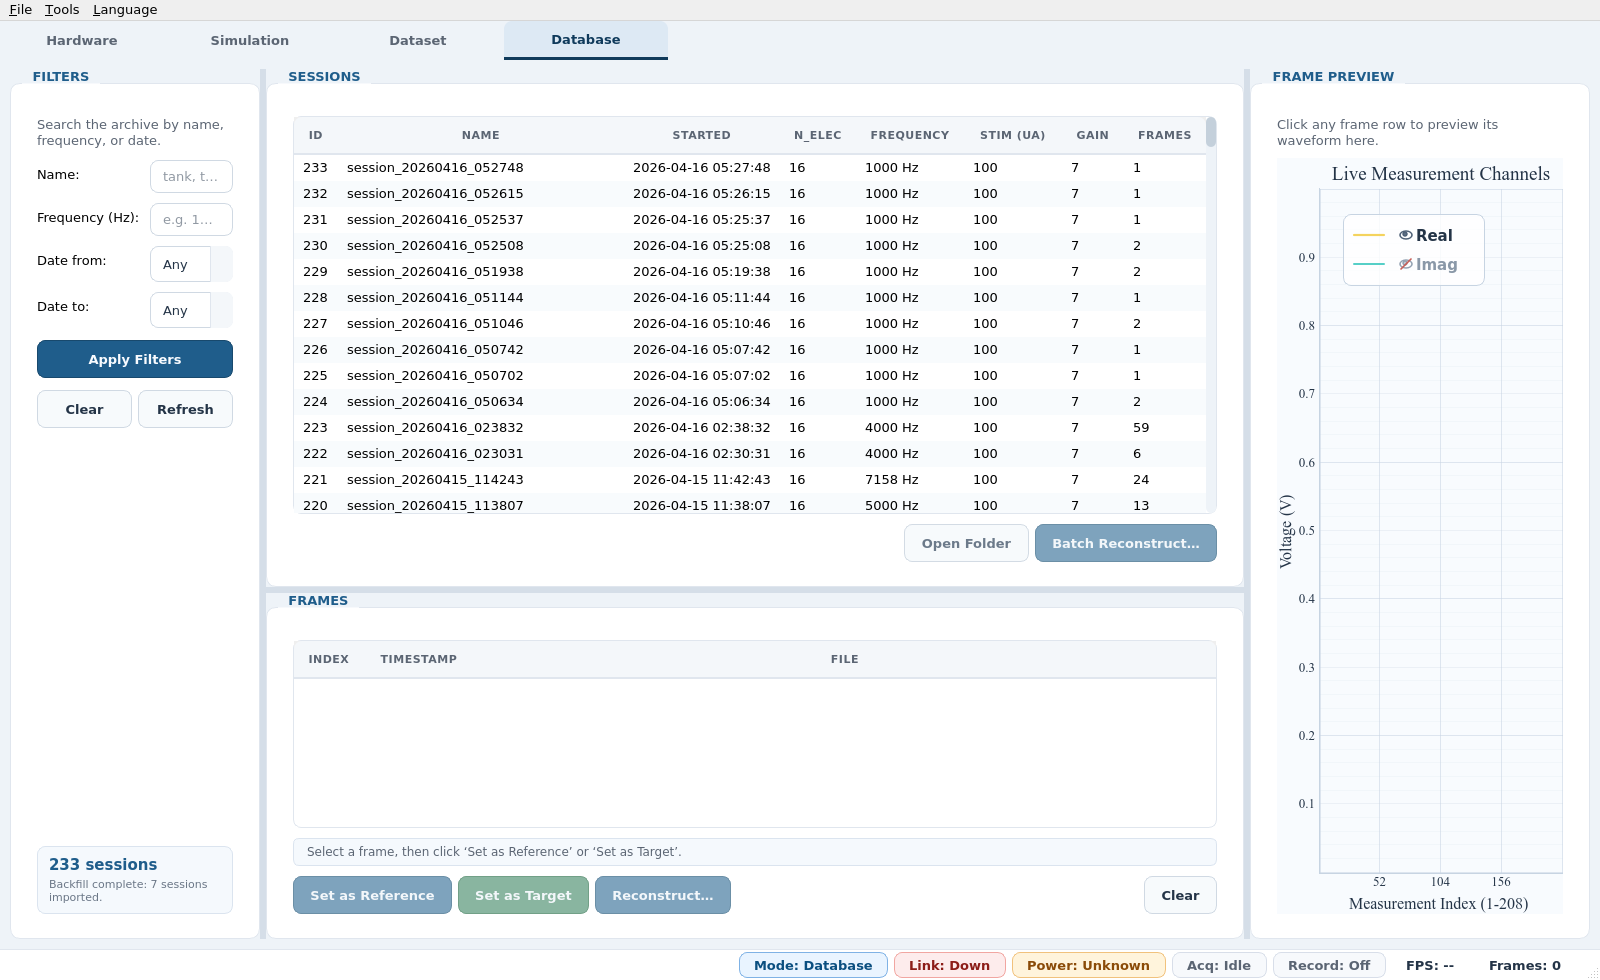
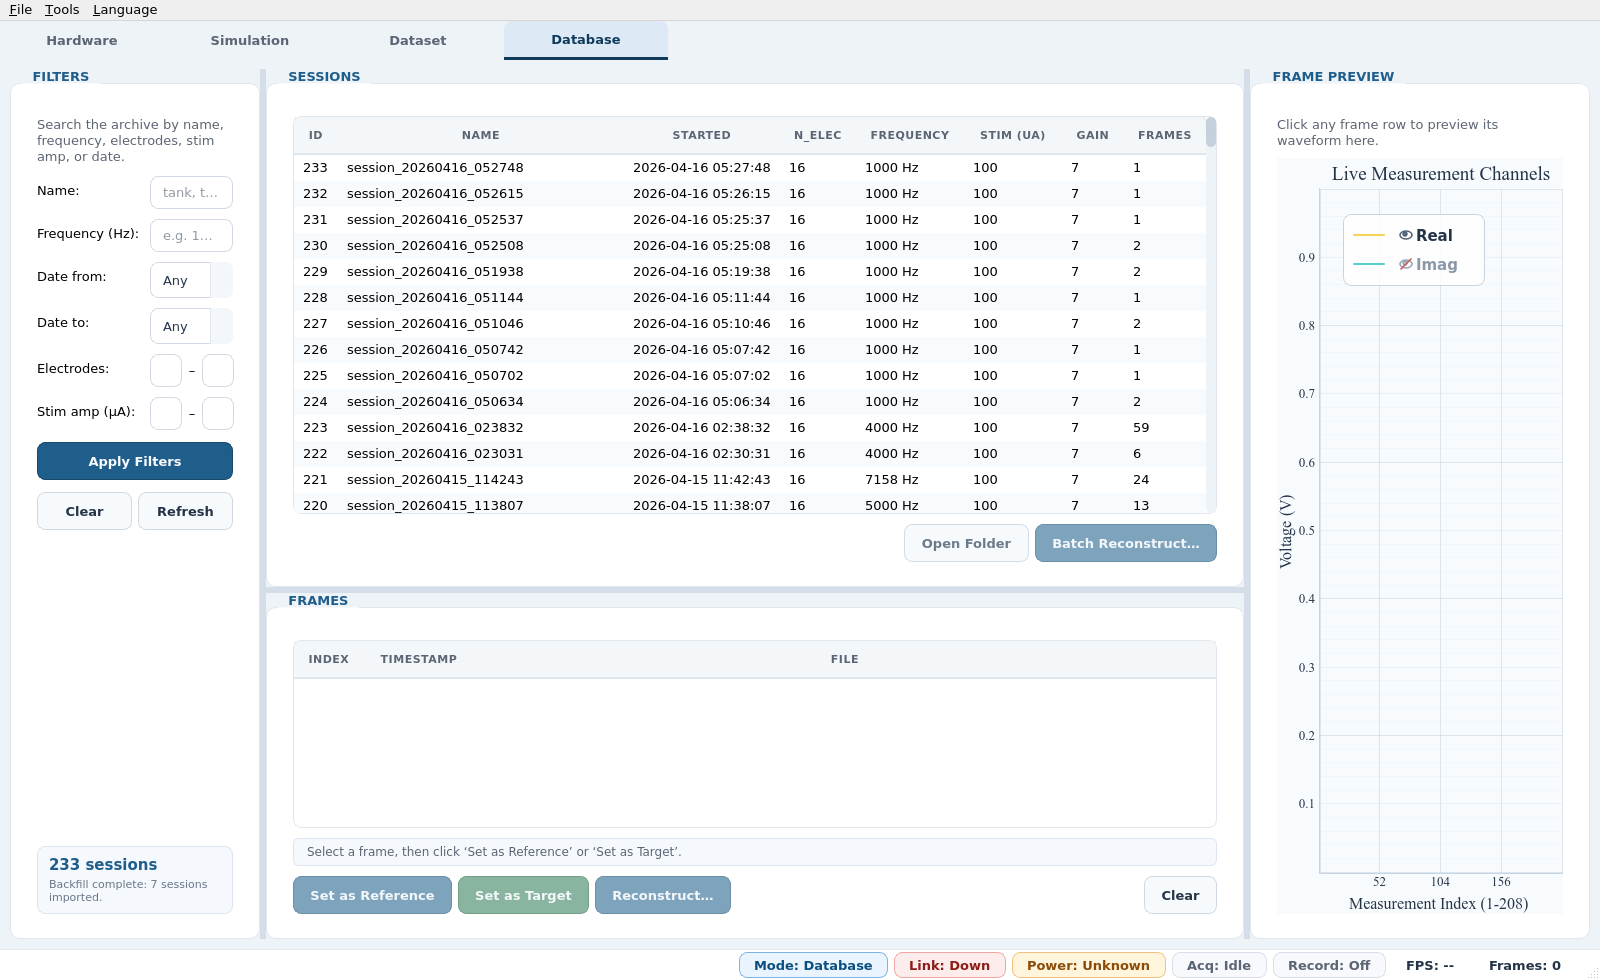
Extend Database filters with electrode count and stim-amp ranges
Previously the Database tab let users filter history only by name,
frequency, and date range — which covers maybe a third of the real
queries an EIT operator asks ("show me the 32-electrode tank runs
at 500 µA" is a completely normal question).  Add two new range
filters so that becomes a single visual query instead of a manual
scan.

UI:
- Two new form rows on the Database filter panel:
  - "Electrodes:   min [   ] – max [   ]"
  - "Stim amp (µA): min [   ] – max [   ]"
  Each field is a QLineEdit with a QIntValidator so only digits
  are accepted.  Blank = unbounded on that side, so "min=16" with
  empty max means "16 or more".
- New i18n keys (en + zh) for labels and placeholder text.

Data layer:
- FrameDatabase.query_sessions() gains four optional kwargs:
  n_elec_min, n_elec_max, stim_amp_ua_min, stim_amp_ua_max.
  Each translates to an inclusive SQL range clause; any None is
  skipped.  DatabaseController proxy updated to match.

Wiring:
- refresh_sessions() reads all four LineEdits, parses ints, and
  forwards non-empty values to the DB query.
- _clear_filters() resets the new fields too.
- _retranslate() re-labels everything on language switch.

Regression test asserts inclusive-range semantics on the SQL layer
(no Qt fixture needed — the DB is a pure SQLite wrapper).

Also refresh docs/screenshots/ so the visual baseline reflects the
new filter rows.

diff --git a/src/eit_app/ui/database/database_tab.py b/src/eit_app/ui/database/database_tab.py
@@ -8,6 +8,7 @@ from pathlib import Path
 from typing import Any
 
 from PySide6.QtCore import QAbstractTableModel, QModelIndex, Qt, Signal
+from PySide6.QtGui import QIntValidator
 from PySide6.QtWidgets import (
     QAbstractItemView,
     QDateEdit,
@@ -275,6 +276,38 @@ class DatabaseTab(QWidget):
         self._lbl_date_to = QLabel("")
         form.addRow(self._lbl_date_to, self._filter_date_to)
 
+        # Electrode-count range (min + max on one row).  Blank = unbounded.
+        n_elec_row = QHBoxLayout()
+        n_elec_row.setSpacing(4)
+        self._filter_n_elec_min = QLineEdit()
+        self._filter_n_elec_min.setValidator(QIntValidator(0, 1024, self))
+        self._filter_n_elec_max = QLineEdit()
+        self._filter_n_elec_max.setValidator(QIntValidator(0, 1024, self))
+        self._n_elec_range_dash = QLabel("\u2013")
+        self._n_elec_range_dash.setAlignment(Qt.AlignmentFlag.AlignCenter)
+        self._n_elec_range_dash.setMinimumWidth(12)
+        n_elec_row.addWidget(self._filter_n_elec_min, 1)
+        n_elec_row.addWidget(self._n_elec_range_dash, 0)
+        n_elec_row.addWidget(self._filter_n_elec_max, 1)
+        self._lbl_n_elec = QLabel("")
+        form.addRow(self._lbl_n_elec, n_elec_row)
+
+        # Stim-amp range (µA) — same layout as electrode count.
+        stim_row = QHBoxLayout()
+        stim_row.setSpacing(4)
+        self._filter_stim_min = QLineEdit()
+        self._filter_stim_min.setValidator(QIntValidator(0, 100_000, self))
+        self._filter_stim_max = QLineEdit()
+        self._filter_stim_max.setValidator(QIntValidator(0, 100_000, self))
+        self._stim_range_dash = QLabel("\u2013")
+        self._stim_range_dash.setAlignment(Qt.AlignmentFlag.AlignCenter)
+        self._stim_range_dash.setMinimumWidth(12)
+        stim_row.addWidget(self._filter_stim_min, 1)
+        stim_row.addWidget(self._stim_range_dash, 0)
+        stim_row.addWidget(self._filter_stim_max, 1)
+        self._lbl_stim_amp = QLabel("")
+        form.addRow(self._lbl_stim_amp, stim_row)
+
         layout.addLayout(form)
 
         self._apply_btn = QPushButton("")
@@ -518,6 +551,23 @@ class DatabaseTab(QWidget):
         if date_to != self._filter_date_to.minimumDate():
             filters["started_before"] = date_to.toString("yyyy-MM-dd") + "T23:59:59"
 
+        # Range filters: each bound is optional.  Invalid / empty
+        # values fall through silently — the QIntValidator already
+        # prevents non-digit characters from being entered.
+        for key, widget in (
+            ("n_elec_min", self._filter_n_elec_min),
+            ("n_elec_max", self._filter_n_elec_max),
+            ("stim_amp_ua_min", self._filter_stim_min),
+            ("stim_amp_ua_max", self._filter_stim_max),
+        ):
+            raw = widget.text().strip()
+            if not raw:
+                continue
+            try:
+                filters[key] = int(raw)
+            except ValueError:
+                continue
+
         sessions = self._db_ctrl.query_sessions(**filters)
         self._session_model.set_rows(sessions)
         self._session_count_cache = len(sessions)
@@ -533,6 +583,10 @@ class DatabaseTab(QWidget):
         self._filter_freq.clear()
         self._filter_date_from.setDate(self._filter_date_from.minimumDate())
         self._filter_date_to.setDate(self._filter_date_to.minimumDate())
+        self._filter_n_elec_min.clear()
+        self._filter_n_elec_max.clear()
+        self._filter_stim_min.clear()
+        self._filter_stim_max.clear()
         self.refresh_sessions()
 
     def _selected_session(self) -> dict[str, Any] | None:
@@ -711,6 +765,12 @@ class DatabaseTab(QWidget):
         self._lbl_freq.setText(t("db.filters.freq_label"))
         self._lbl_date_from.setText(t("db.filters.date_from_label"))
         self._lbl_date_to.setText(t("db.filters.date_to_label"))
+        self._lbl_n_elec.setText(t("db.filters.n_elec_label"))
+        self._filter_n_elec_min.setPlaceholderText(t("db.filters.n_elec_min_placeholder"))
+        self._filter_n_elec_max.setPlaceholderText(t("db.filters.n_elec_max_placeholder"))
+        self._lbl_stim_amp.setText(t("db.filters.stim_amp_label"))
+        self._filter_stim_min.setPlaceholderText(t("db.filters.stim_amp_min_placeholder"))
+        self._filter_stim_max.setPlaceholderText(t("db.filters.stim_amp_max_placeholder"))
         self._apply_btn.setText(t("db.filters.apply_button"))
         self._clear_btn.setText(t("db.filters.clear_button"))
         self._refresh_btn.setText(t("db.filters.refresh_button"))

diff --git a/src/eit_app/i18n/zh.py b/src/eit_app/i18n/zh.py
@@ -437,7 +437,7 @@ TRANSLATIONS: dict[str, str] = {
     # Database tab — Left filter panel
     # ==================================================================
     "db.filters.title": "\u7b5b\u9009",                                                               # 筛选
-    "db.filters.hint": "\u6309\u540d\u79f0\u3001\u9891\u7387\u6216\u65e5\u671f\u68c0\u7d22\u5386\u53f2\u8bb0\u5f55\u3002",  # 按名称、频率或日期检索历史记录。
+    "db.filters.hint": "\u6309\u540d\u79f0\u3001\u9891\u7387\u3001\u7535\u6781\u6570\u3001\u6fc0\u52b1\u7535\u6d41\u6216\u65e5\u671f\u68c0\u7d22\u5386\u53f2\u8bb0\u5f55\u3002",  # 按名称、频率、电极数、激励电流或日期检索历史记录。
     "db.filters.name_label": "\u540d\u79f0\uff1a",                                                    # 名称：
     "db.filters.name_placeholder": "tank, test_for_gui \u2026",
     "db.filters.freq_label": "\u9891\u7387 (Hz)\uff1a",                                               # 频率 (Hz)：
@@ -445,6 +445,12 @@ TRANSLATIONS: dict[str, str] = {
     "db.filters.date_any": "\u5168\u90e8",                                                            # 全部
     "db.filters.date_from_label": "\u8d77\u59cb\u65e5\u671f\uff1a",                                    # 起始日期：
     "db.filters.date_to_label": "\u7ed3\u675f\u65e5\u671f\uff1a",                                      # 结束日期：
+    "db.filters.n_elec_label": "\u7535\u6781\u6570\uff1a",                                             # 电极数：
+    "db.filters.n_elec_min_placeholder": "\u6700\u5c0f",                                                # 最小
+    "db.filters.n_elec_max_placeholder": "\u6700\u5927",                                                # 最大
+    "db.filters.stim_amp_label": "\u6fc0\u52b1\u7535\u6d41 (\u00b5A)\uff1a",                             # 激励电流 (µA)：
+    "db.filters.stim_amp_min_placeholder": "\u6700\u5c0f",                                              # 最小
+    "db.filters.stim_amp_max_placeholder": "\u6700\u5927",                                              # 最大
     "db.filters.apply_button": "\u5e94\u7528\u7b5b\u9009",                                            # 应用筛选
     "db.filters.clear_button": "\u6e05\u7a7a",                                                        # 清空
     "db.filters.refresh_button": "\u5237\u65b0",                                                      # 刷新

diff --git a/tests/unit/test_eit_app_gui_smoke.py b/tests/unit/test_eit_app_gui_smoke.py
@@ -346,6 +346,52 @@ def test_workflow_shell_tabs_share_300px_right_context_minimum() -> None:
         _close_window(window)
 
 
+def test_frame_database_range_filters_on_n_elec_and_stim_amp(tmp_path: Path) -> None:
+    """New n_elec_min/max and stim_amp_ua_min/max filters.
+
+    Not gated on @pytest.mark.gui — FrameDatabase is a pure SQLite
+    wrapper with no Qt widgets, so this runs fast as a normal unit.
+    """
+    from eit_app.models.frame_database import FrameDatabase
+
+    db = FrameDatabase(tmp_path / "range.db")
+    try:
+        for name, n_elec, stim in [("A", 16, 100), ("B", 32, 500), ("C", 64, 1000)]:
+            db.add_session(
+                tmp_path / name,
+                {
+                    "name": name,
+                    "started_at": f"2026-01-{int(n_elec / 16):02d}",
+                    "n_elec": n_elec,
+                    "frequency_hz": 1000,
+                    "stim_amp_uA": stim,
+                },
+            )
+
+        names = lambda rows: sorted(r["name"] for r in rows)
+
+        # n_elec inclusive range
+        assert names(db.query_sessions(n_elec_min=32)) == ["B", "C"]
+        assert names(db.query_sessions(n_elec_max=32)) == ["A", "B"]
+        assert names(db.query_sessions(n_elec_min=32, n_elec_max=32)) == ["B"]
+
+        # stim_amp_uA inclusive range
+        assert names(db.query_sessions(stim_amp_ua_min=500)) == ["B", "C"]
+        assert names(db.query_sessions(stim_amp_ua_max=500)) == ["A", "B"]
+
+        # Combined
+        assert names(
+            db.query_sessions(
+                n_elec_min=16, n_elec_max=32, stim_amp_ua_max=500
+            )
+        ) == ["A", "B"]
+
+        # Empty result when ranges don't overlap any row
+        assert names(db.query_sessions(n_elec_min=128)) == []
+    finally:
+        db.close()
+
+
 @pytest.mark.gui
 def test_bilingual_tab_capture_produces_stable_png_pixmaps() -> None:
     """Phase 10: verify the QWidget.grab() path used by the

diff --git a/src/eit_app/models/frame_database.py b/src/eit_app/models/frame_database.py
@@ -169,9 +169,18 @@ class FrameDatabase:
         started_after: str | None = None,
         started_before: str | None = None,
         name_like: str | None = None,
+        n_elec_min: int | None = None,
+        n_elec_max: int | None = None,
+        stim_amp_ua_min: int | None = None,
+        stim_amp_ua_max: int | None = None,
         limit: int = 500,
     ) -> list[dict[str, Any]]:
-        """Return sessions matching optional filters, newest first."""
+        """Return sessions matching optional filters, newest first.
+
+        Range filters (``*_min`` / ``*_max``) are inclusive on both ends.
+        Any bound that is None is skipped, so you can ask for an
+        open-ended range by supplying only one side.
+        """
         sql = "SELECT s.*, (SELECT COUNT(*) FROM frames f WHERE f.session_id = s.id) AS frame_count FROM sessions s WHERE 1=1"
         params: list[Any] = []
         if frequency_hz is not None:
@@ -187,6 +196,18 @@ class FrameDatabase:
             sql += " AND (s.name LIKE ? OR s.session_dir LIKE ?)"
             like = f"%{name_like}%"
             params.extend([like, like])
+        if n_elec_min is not None:
+            sql += " AND s.n_elec >= ?"
+            params.append(int(n_elec_min))
+        if n_elec_max is not None:
+            sql += " AND s.n_elec <= ?"
+            params.append(int(n_elec_max))
+        if stim_amp_ua_min is not None:
+            sql += " AND s.stim_amp_uA >= ?"
+            params.append(int(stim_amp_ua_min))
+        if stim_amp_ua_max is not None:
+            sql += " AND s.stim_amp_uA <= ?"
+            params.append(int(stim_amp_ua_max))
         sql += " ORDER BY s.started_at DESC LIMIT ?"
         params.append(int(limit))
 

diff --git a/src/eit_app/i18n/en.py b/src/eit_app/i18n/en.py
@@ -436,7 +436,7 @@ TRANSLATIONS: dict[str, str] = {
     # Database tab — Left filter panel
     # ==================================================================
     "db.filters.title": "FILTERS",
-    "db.filters.hint": "Search the archive by name, frequency, or date.",
+    "db.filters.hint": "Search the archive by name, frequency, electrodes, stim amp, or date.",
     "db.filters.name_label": "Name:",
     "db.filters.name_placeholder": "tank, test_for_gui \u2026",
     "db.filters.freq_label": "Frequency (Hz):",
@@ -444,6 +444,12 @@ TRANSLATIONS: dict[str, str] = {
     "db.filters.date_any": "Any",
     "db.filters.date_from_label": "Date from:",
     "db.filters.date_to_label": "Date to:",
+    "db.filters.n_elec_label": "Electrodes:",
+    "db.filters.n_elec_min_placeholder": "min",
+    "db.filters.n_elec_max_placeholder": "max",
+    "db.filters.stim_amp_label": "Stim amp (\u00b5A):",
+    "db.filters.stim_amp_min_placeholder": "min",
+    "db.filters.stim_amp_max_placeholder": "max",
     "db.filters.apply_button": "Apply Filters",
     "db.filters.clear_button": "Clear",
     "db.filters.refresh_button": "Refresh",

diff --git a/src/eit_app/controllers/database_controller.py b/src/eit_app/controllers/database_controller.py
@@ -282,12 +282,20 @@ class DatabaseController(QObject):
         started_after: str | None = None,
         started_before: str | None = None,
         name_like: str | None = None,
+        n_elec_min: int | None = None,
+        n_elec_max: int | None = None,
+        stim_amp_ua_min: int | None = None,
+        stim_amp_ua_max: int | None = None,
     ) -> list[dict[str, Any]]:
         return self._db.query_sessions(
             frequency_hz=frequency_hz,
             started_after=started_after,
             started_before=started_before,
             name_like=name_like,
+            n_elec_min=n_elec_min,
+            n_elec_max=n_elec_max,
+            stim_amp_ua_min=stim_amp_ua_min,
+            stim_amp_ua_max=stim_amp_ua_max,
         )
 
     def query_frames(self, session_id: int) -> list[dict[str, Any]]:
